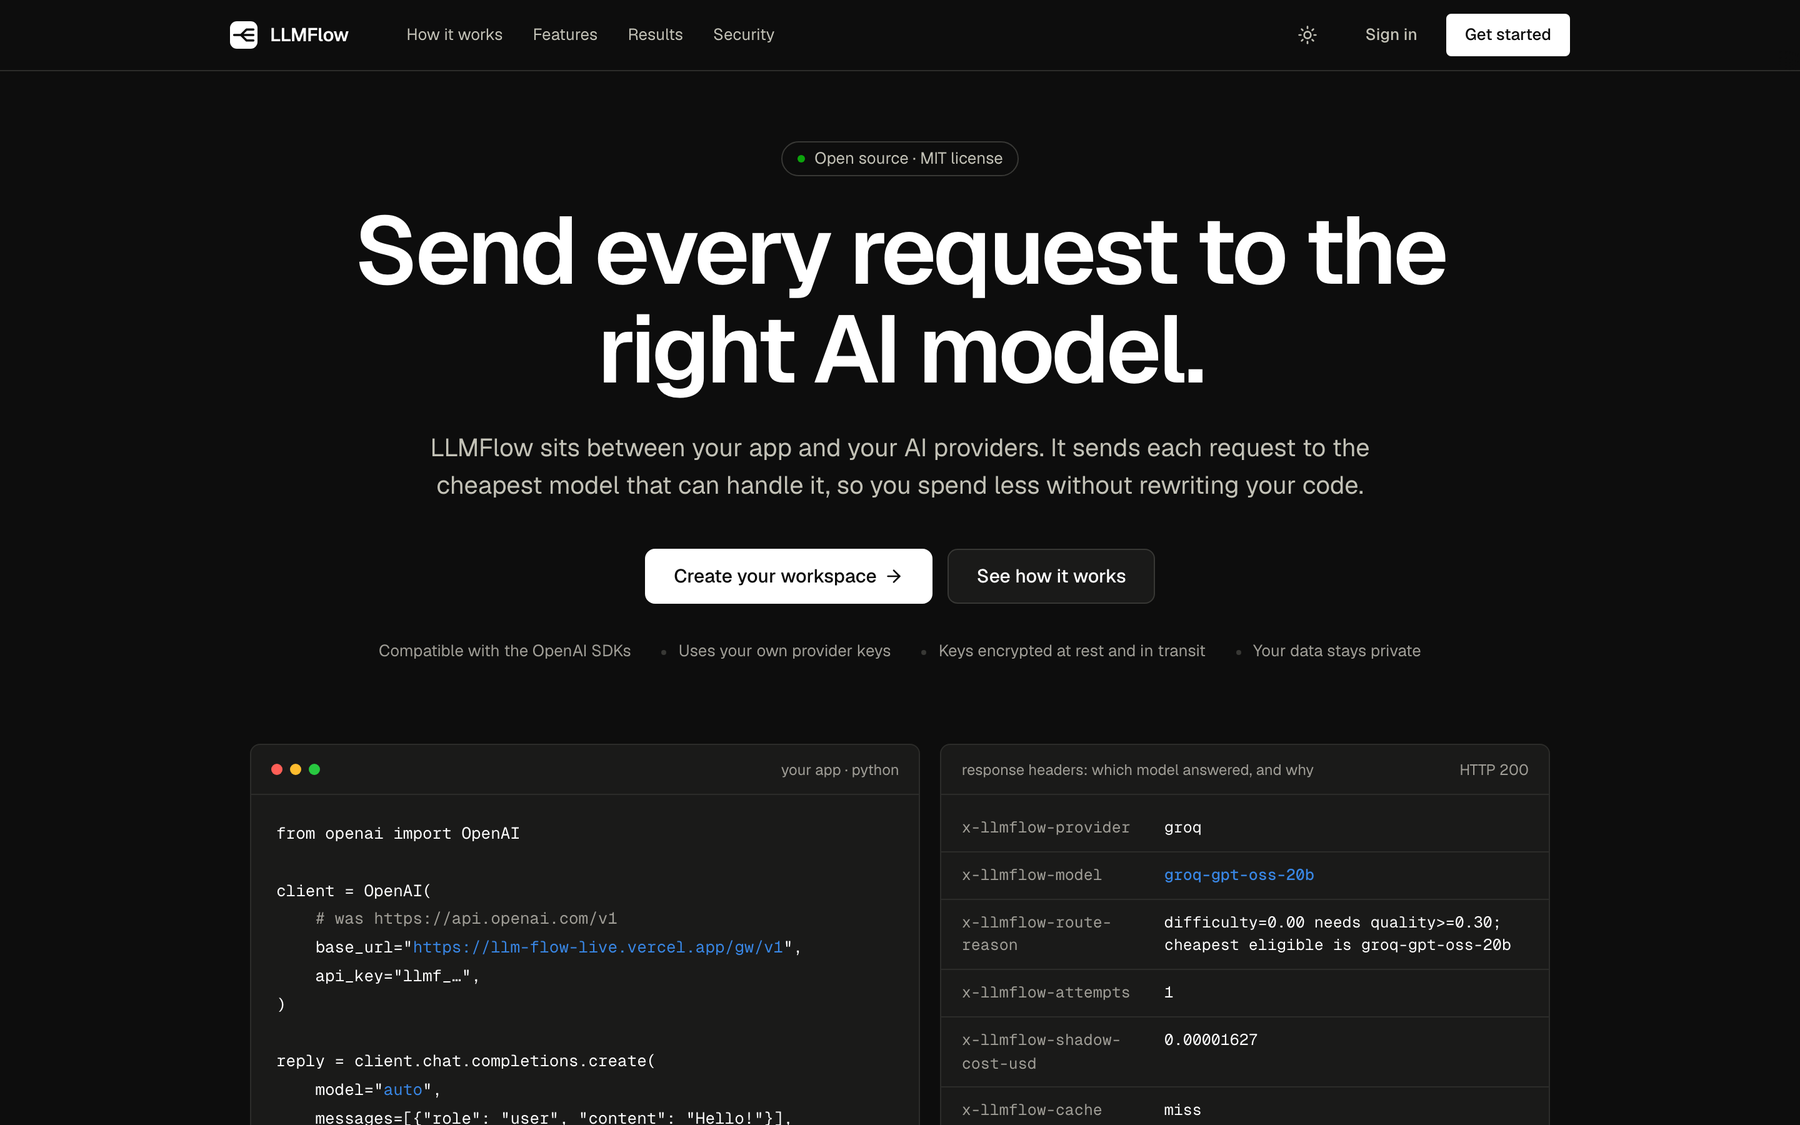
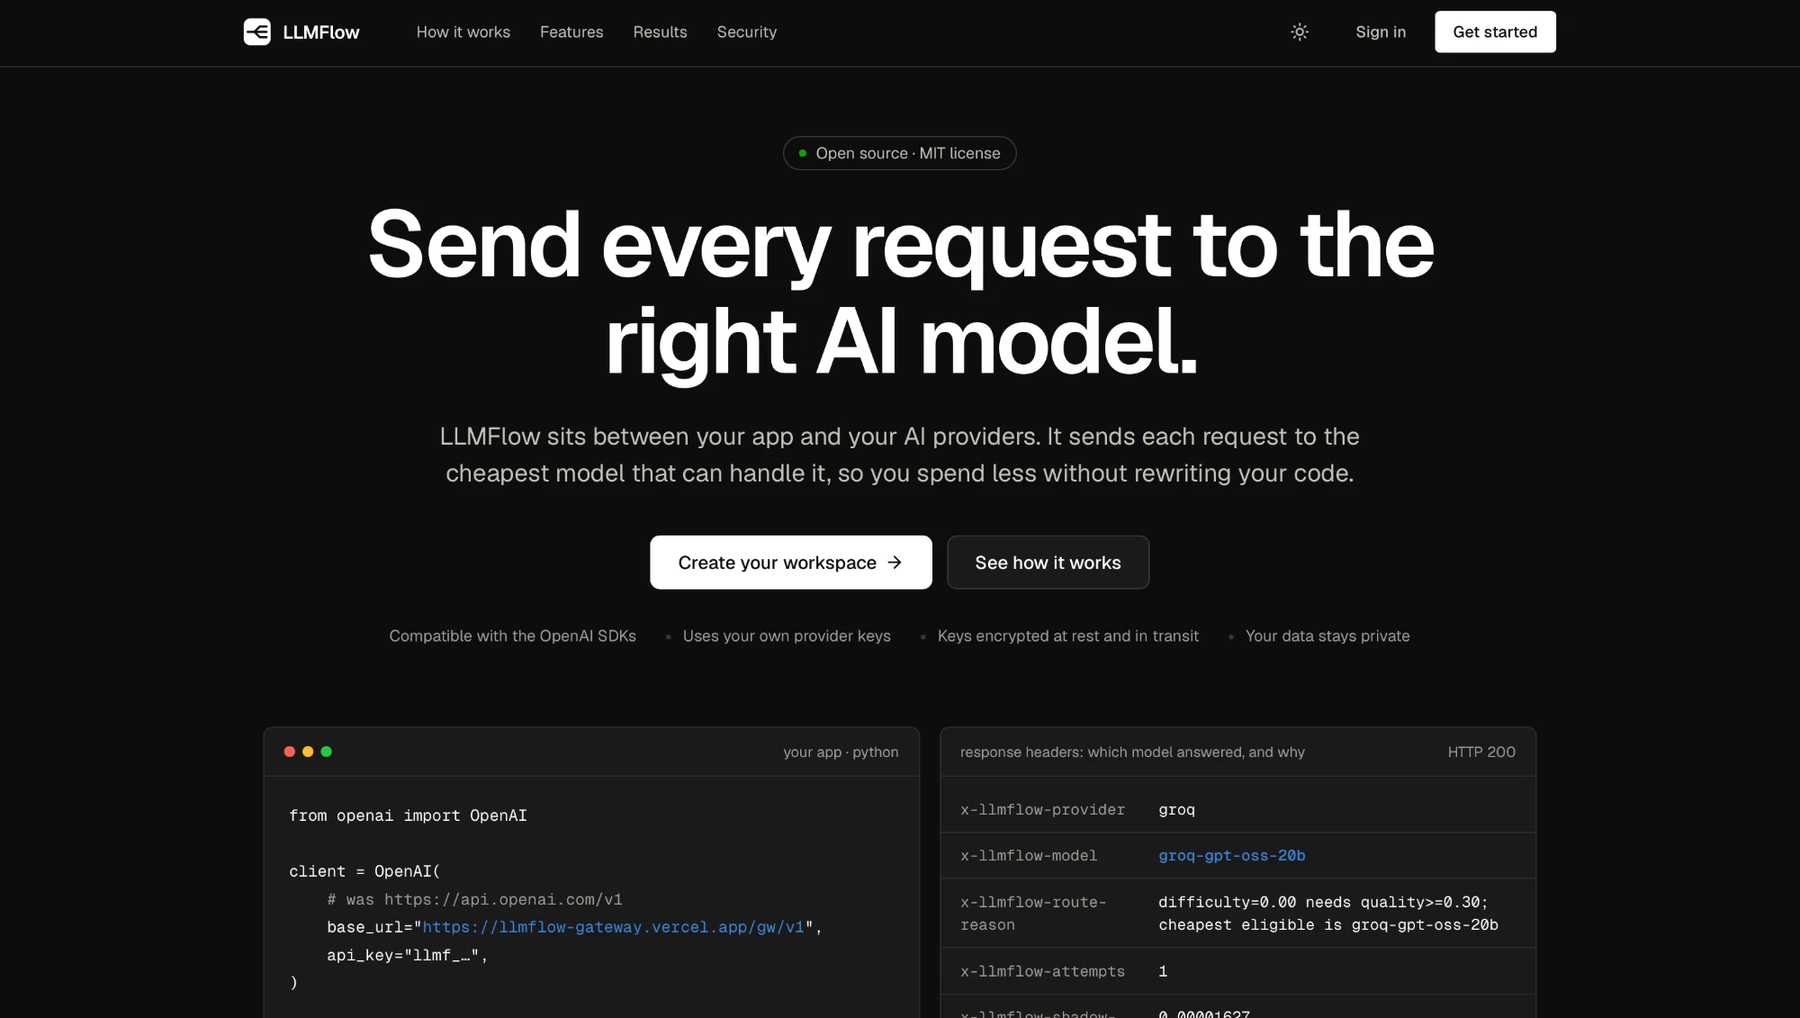
Move the live site to llmflow-gateway.vercel.app, fix the bar chart width after toggling the table, hide empty Overview table rows, and update README screenshots

diff --git a/dashboard/src/components/StackedBars.tsx b/dashboard/src/components/StackedBars.tsx
@@ -46,7 +46,9 @@ export function StackedBars({
     const ro = new ResizeObserver(() => setWidth(el.clientWidth || 640));
     ro.observe(el);
     return () => ro.disconnect();
-  }, []);
+    // The chart element only exists in chart view: measure it again each time it comes back,
+    // otherwise the width falls back to its default after a trip through the table view.
+  }, [table]);
 
   const totals = useMemo(
     () => points.map((p) => series.reduce((sum, s) => sum + Number(p[s.key]), 0)),
@@ -57,6 +59,11 @@ export function StackedBars({
   const yMax = ticks[ticks.length - 1] ?? 1;
   const plotW = Math.max(10, width - M.left - M.right);
   const plotH = height - M.top - M.bottom;
+  const activeRows = useMemo(
+    () => points.filter((p) => series.some((s) => Number(p[s.key]) !== 0)),
+    [points, series],
+  );
+  const hiddenCount = points.length - activeRows.length;
   const slot = plotW / Math.max(1, points.length);
   const barW = Math.max(2, Math.min(MAX_BAR, slot - GAP));
   const y = (v: number) => M.top + plotH - (v / yMax) * plotH;
@@ -96,6 +103,7 @@ export function StackedBars({
       </div>
 
       {table ? (
+        <>
         <div className="table-wrap" style={{ maxHeight: height + 40, overflowY: "auto" }}>
           <table>
             <thead>
@@ -109,7 +117,7 @@ export function StackedBars({
               </tr>
             </thead>
             <tbody>
-              {points.map((p) => (
+              {activeRows.map((p) => (
                 <tr key={p.ts}>
                   <td>{dateTime(p.ts)}</td>
                   {series.map((s) => (
@@ -119,9 +127,22 @@ export function StackedBars({
                   ))}
                 </tr>
               ))}
+              {activeRows.length === 0 && (
+                <tr>
+                  <td colSpan={series.length + 1} className="muted">
+                    No activity in this range.
+                  </td>
+                </tr>
+              )}
             </tbody>
           </table>
         </div>
+        {hiddenCount > 0 && activeRows.length > 0 && (
+          <p className="table-note">
+            {hiddenCount} empty {hiddenCount === 1 ? "interval" : "intervals"} with no activity not shown.
+          </p>
+        )}
+        </>
       ) : (
         <div className="chart" ref={wrap}>
           <svg

diff --git a/dashboard/src/components/StackedBars.test.tsx b/dashboard/src/components/StackedBars.test.tsx
@@ -19,14 +19,41 @@ const SERIES: BarSeries[] = [
   { key: "large", label: "Large tier", color: "blue" },
 ];
 
+const observed: Element[] = [];
 class RO {
-  observe() {}
+  observe(el: Element) {
+    observed.push(el);
+  }
   disconnect() {}
 }
 
 describe("StackedBars", () => {
   beforeAll(() => {
     vi.stubGlobal("ResizeObserver", RO);
+  });
+
+  it("measures the chart again after switching to the table and back", () => {
+    const { container } = render(<StackedBars points={[point(1_700_000_000, 3, 2)]} series={SERIES} bucketS={1800} />);
+    fireEvent.click(screen.getByRole("button", { name: "Show table" }));
+    fireEvent.click(screen.getByRole("button", { name: "Show chart" }));
+    const chart = container.querySelector(".chart");
+    expect(chart).not.toBeNull();
+    expect(observed[observed.length - 1]).toBe(chart); // the NEW chart element is being observed
+  });
+
+  it("table view hides empty intervals and says how many", () => {
+    const pts = [point(1_700_000_000, 0, 0), point(1_700_001_800, 0, 0), point(1_700_003_600, 3, 1), point(1_700_005_400, 0, 0)];
+    render(<StackedBars points={pts} series={SERIES} bucketS={1800} />);
+    fireEvent.click(screen.getByRole("button", { name: "Show table" }));
+    expect(screen.getAllByRole("row")).toHaveLength(2); // header + the one interval with activity
+    expect(screen.getByText("3 empty intervals with no activity not shown.")).toBeInTheDocument();
+  });
+
+  it("table view says so when the whole range is empty", () => {
+    render(<StackedBars points={[point(1_700_000_000, 0, 0), point(1_700_001_800, 0, 0)]} series={SERIES} bucketS={1800} />);
+    fireEvent.click(screen.getByRole("button", { name: "Show table" }));
+    expect(screen.getByText("No activity in this range.")).toBeInTheDocument();
+    expect(screen.queryByText(/not shown/)).toBeNull();
   });
 
   it("renders a legend and offers a table view with every value", () => {

diff --git a/dashboard/src/components/LineChart.tsx b/dashboard/src/components/LineChart.tsx
@@ -39,6 +39,11 @@ export function LineChart({
   }, [table]);
 
   const max = useMemo(() => Math.max(0, ...series.flatMap((s) => s.values)), [series]);
+  const activeRows = useMemo(
+    () => times.map((t, i) => ({ t, i })).filter(({ i }) => series.some((s) => (s.values[i] ?? 0) !== 0)),
+    [times, series],
+  );
+  const hiddenCount = times.length - activeRows.length;
   const ticks = niceTicks(max, 4);
   const yMax = ticks[ticks.length - 1] ?? 1;
   const plotW = Math.max(10, width - M.left - M.right);
@@ -89,6 +94,7 @@ export function LineChart({
         </button>
       </div>
       {table ? (
+        <>
         <div className="table-wrap" style={{ maxHeight: height + 40, overflowY: "auto" }}>
           <table>
             <thead>
@@ -102,7 +108,7 @@ export function LineChart({
               </tr>
             </thead>
             <tbody>
-              {times.map((t, i) => (
+              {activeRows.map(({ t, i }) => (
                 <tr key={t}>
                   <td>{dateTime(t)}</td>
                   {series.map((s) => (
@@ -112,9 +118,22 @@ export function LineChart({
                   ))}
                 </tr>
               ))}
+              {activeRows.length === 0 && (
+                <tr>
+                  <td colSpan={series.length + 1} className="muted">
+                    No activity in this range.
+                  </td>
+                </tr>
+              )}
             </tbody>
           </table>
         </div>
+        {hiddenCount > 0 && activeRows.length > 0 && (
+          <p className="table-note">
+            {hiddenCount} empty {hiddenCount === 1 ? "interval" : "intervals"} with no activity not shown.
+          </p>
+        )}
+        </>
       ) : (
         <div className="chart" ref={wrap}>
           <svg

diff --git a/dashboard/src/components/LineChart.test.tsx b/dashboard/src/components/LineChart.test.tsx
@@ -1,8 +1,11 @@
 import { fireEvent, render, screen } from "@testing-library/react";
 import { LineChart } from "./LineChart";
 
+const observed: Element[] = [];
 class RO {
-  observe() {}
+  observe(el: Element) {
+    observed.push(el);
+  }
   disconnect() {}
 }
 
@@ -20,6 +23,31 @@ describe("LineChart", () => {
       { label: "Actual", color: "blue", values: [1, 2] },
     ],
   };
+
+  it("measures the chart again after switching to the table and back", () => {
+    const { container } = render(<LineChart {...props} />);
+    fireEvent.click(screen.getByRole("button", { name: "Show table" }));
+    fireEvent.click(screen.getByRole("button", { name: "Show chart" }));
+    const chart = container.querySelector(".chart");
+    expect(chart).not.toBeNull();
+    expect(observed[observed.length - 1]).toBe(chart);
+  });
+
+  it("table view hides intervals where every series is zero", () => {
+    render(
+      <LineChart
+        {...props}
+        times={[1_700_000_000, 1_700_001_800, 1_700_003_600]}
+        series={[
+          { label: "Reference", color: "gray", values: [0, 0, 6], dashed: true },
+          { label: "Actual", color: "blue", values: [0, 0, 2] },
+        ]}
+      />,
+    );
+    fireEvent.click(screen.getByRole("button", { name: "Show table" }));
+    expect(screen.getAllByRole("row")).toHaveLength(2); // header + the active interval
+    expect(screen.getByText("2 empty intervals with no activity not shown.")).toBeInTheDocument();
+  });
 
   it("lists every series value in the table view", () => {
     render(<LineChart {...props} />);

diff --git a/dashboard/src/lib/publicInfo.test.ts b/dashboard/src/lib/publicInfo.test.ts
@@ -5,8 +5,8 @@ afterEach(() => vi.unstubAllGlobals());
 describe("publicInfo failure messages", () => {
   it("names the host when the browser cannot connect at all", async () => {
     vi.stubGlobal("fetch", vi.fn().mockRejectedValue(new TypeError("Failed to fetch")));
-    await expect(api.publicInfo("https://llm-flow-live.vercel.app/gw")).rejects.toThrow(
-      /could not connect to llm-flow-live\.vercel\.app\/gw.*blocker/,
+    await expect(api.publicInfo("https://llmflow-gateway.vercel.app/gw")).rejects.toThrow(
+      /could not connect to llmflow-gateway\.vercel\.app\/gw.*blocker/,
     );
   });
 

diff --git a/dashboard/seo.ts b/dashboard/seo.ts
@@ -1,7 +1,7 @@
 /** Search-engine files generated at build time from one public site URL, so a custom domain only
  *  needs ``VITE_SITE_URL`` changed (no hand-edited sitemap or canonical tags). */
 
-export const DEFAULT_SITE_URL = "https://llm-flow-live.vercel.app";
+export const DEFAULT_SITE_URL = "https://llmflow-gateway.vercel.app";
 
 export function normaliseSiteUrl(raw: string | undefined): string {
   const url = (raw ?? "").trim() || DEFAULT_SITE_URL;

diff --git a/dashboard/src/lib/api.ts b/dashboard/src/lib/api.ts
@@ -30,7 +30,7 @@ export interface SignupResult extends SessionInfo {
   recovery_codes: string[];
 }
 
-/** Short, human label for where requests go, e.g. "llm-flow-live.vercel.app/gw". */
+/** Short, human label for where requests go, e.g. "llmflow-gateway.vercel.app/gw". */
 export function describeGateway(baseUrl: string): string {
   return baseUrl.replace(/^https?:\/\//, "").replace(/\/+$/, "") || "the gateway";
 }

diff --git a/dashboard/src/styles.css b/dashboard/src/styles.css
@@ -439,3 +439,5 @@ td.sub-row { white-space: normal; background: var(--surface-2); color: var(--tex
 .reveal { padding: 4px 0; }
 .reveal-row td { background: var(--surface-2); padding: 14px 20px; }
 .panel-body > .reveal { border-top: 1px solid var(--border); padding-top: 16px; }
+
+.table-note { margin: 0; padding: 10px 12px 2px; font-size: 12px; color: var(--text-3); }

diff --git a/README.md b/README.md
@@ -10,7 +10,7 @@ key once, and LLMFlow picks a model per request, falls back when a provider is r
 caches deterministic requests, enforces budgets, and shows you what it did and what it cost.
 
 <p align="center">
-  <b><a href="https://llm-flow-live.vercel.app">Live demo</a></b> &nbsp;·&nbsp;
+  <b><a href="https://llmflow-gateway.vercel.app">Live demo</a></b> &nbsp;·&nbsp;
   <a href="#quick-start">Quick start</a> &nbsp;·&nbsp;
   <a href="docs/SECURITY.md">Security</a> &nbsp;·&nbsp;
   <a href="benchmarks/README.md">Benchmarks</a>
@@ -28,14 +28,11 @@ caches deterministic requests, enforces budgets, and shows you what it did and w
 ## Screenshots
 
 <p align="center">
-  <picture>
-    <source media="(prefers-color-scheme: dark)" srcset="docs/assets/landing-dark.png">
-    <img src="docs/assets/landing-light.png" alt="The LLMFlow landing page: headline, a short code sample and the response headers that explain each routing decision." width="100%">
-  </picture>
+  <img src="docs/assets/landing-dark.png" alt="The LLMFlow landing page: headline, a short code sample using the live gateway address, and the response headers that explain each routing decision." width="100%">
 </p>
 
-The landing page, shown in the visitor's theme. The images below are from the live deployment
-with a few dozen test requests; the dashboard itself sits behind sign-in.
+The landing page (it also has a light theme). The images below are from the live deployment with a
+few dozen test requests; the dashboard itself sits behind sign-in.
 
 **Playground**: send a request and see how it was routed. The reply is rendered as formatted
 text (tables, math, code), and the Routing panel says which model answered and why.
@@ -48,7 +45,7 @@ text (tables, math, code), and the Routing panel says which model answered and w
 largest model, cache hit rate, latency, and the model tier each request was routed to.
 
 <p align="center">
-  <img src="docs/assets/overview.png" alt="The Overview page: 41 requests, 0% errors, 29.7K tokens, a 27% cache hit rate, 538 ms median latency, and a chart of requests by model tier." width="100%">
+  <img src="docs/assets/overview.png" alt="The Overview page: 57 requests with 1 failed (1.8% error rate), 46K tokens, $0.031 shadow cost, $0.119 saved versus always using the largest model, a 27% cache hit rate, 539 ms median latency, and a chart of requests by model tier." width="100%">
 </p>
 
 **Requests**: every request with its routing decision (model, provider, status, tokens, latency,
